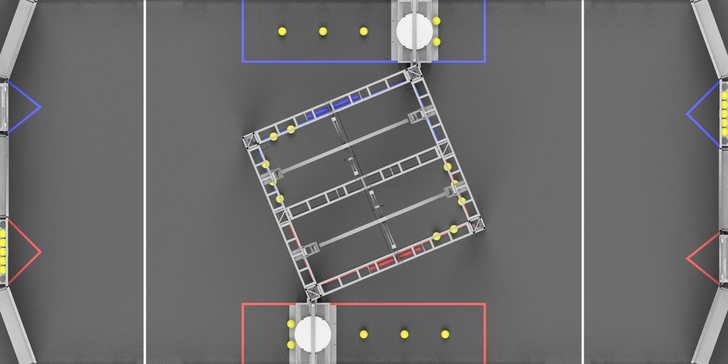
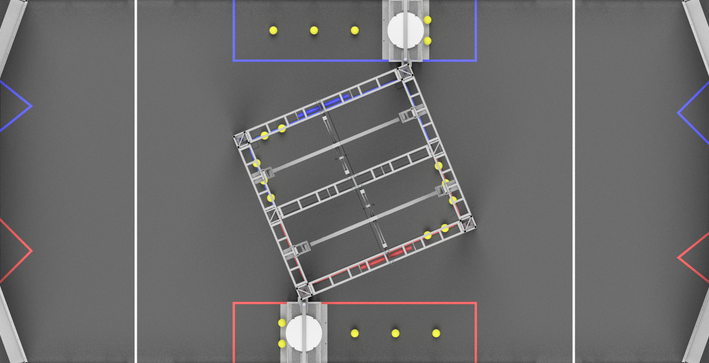
Updated web app

diff --git a/src/autonomous/src/templates/planner.html b/src/autonomous/src/templates/planner.html
@@ -7,10 +7,8 @@
 
 {% block body %}
 <div class="field">
-    <img class="field_img" id="field" src="/static/images/2020-field.png" />
-    <div class="robot" id="robot">
-        <img id="robot_img" src="/static/images/robot.png" />
-    </div>
+    <div id="field_border"></div>
+    <img class="field_img" id="field" src="/static/images/2020-field.png" onclick="setGoal(event)" />
 </div>
 
 <div id="left_sidebar">
@@ -88,5 +86,14 @@
 </div>
 <a href="/" class="back_btn" onclick="postJSON()"> Home </a>
 
+<script type="text/javascript" src="{{ url_for('static', filename='js/planner_json.js') }}"></script>
+<script type="text/javascript" src="{{ url_for('static', filename='js/planner_tabs.js') }}"></script>
+<script type="text/javascript" src="{{ url_for('static', filename='js/planner_goal_pose.js') }}"></script>
+<script type="text/javascript" src="{{ url_for('static', filename='js/planner_goal_constant.js') }}"></script>
+<script type="text/javascript" src="{{ url_for('static', filename='js/planner_goal_linear.js') }}"></script>
+<script type="text/javascript" src="{{ url_for('static', filename='js/planner_goal_angular.js') }}"></script>
+<script type="text/javascript" src="{{ url_for('static', filename='js/planner_paths.js') }}"></script>
+<script type="text/javascript" src="{{ url_for('static', filename='js/planner_goals.js') }}"></script>
+<script type="text/javascript" src="{{ url_for('static', filename='js/planner_set_goal.js') }}"></script>
 <script type="text/javascript" src="{{ url_for('static', filename='js/planner.js') }}"></script>
 {% endblock %}

diff --git a/src/autonomous/src/templates/base.html b/src/autonomous/src/templates/base.html
@@ -5,7 +5,7 @@
     <meta name="viewport" content="width=device-width, initial-scale=1.0">
     {% block head %}{% endblock %}
 </head>
-<body>
+<body onresize="createFieldBorder()">
     {% block body %}{% endblock %}
 </body>
 </html>
